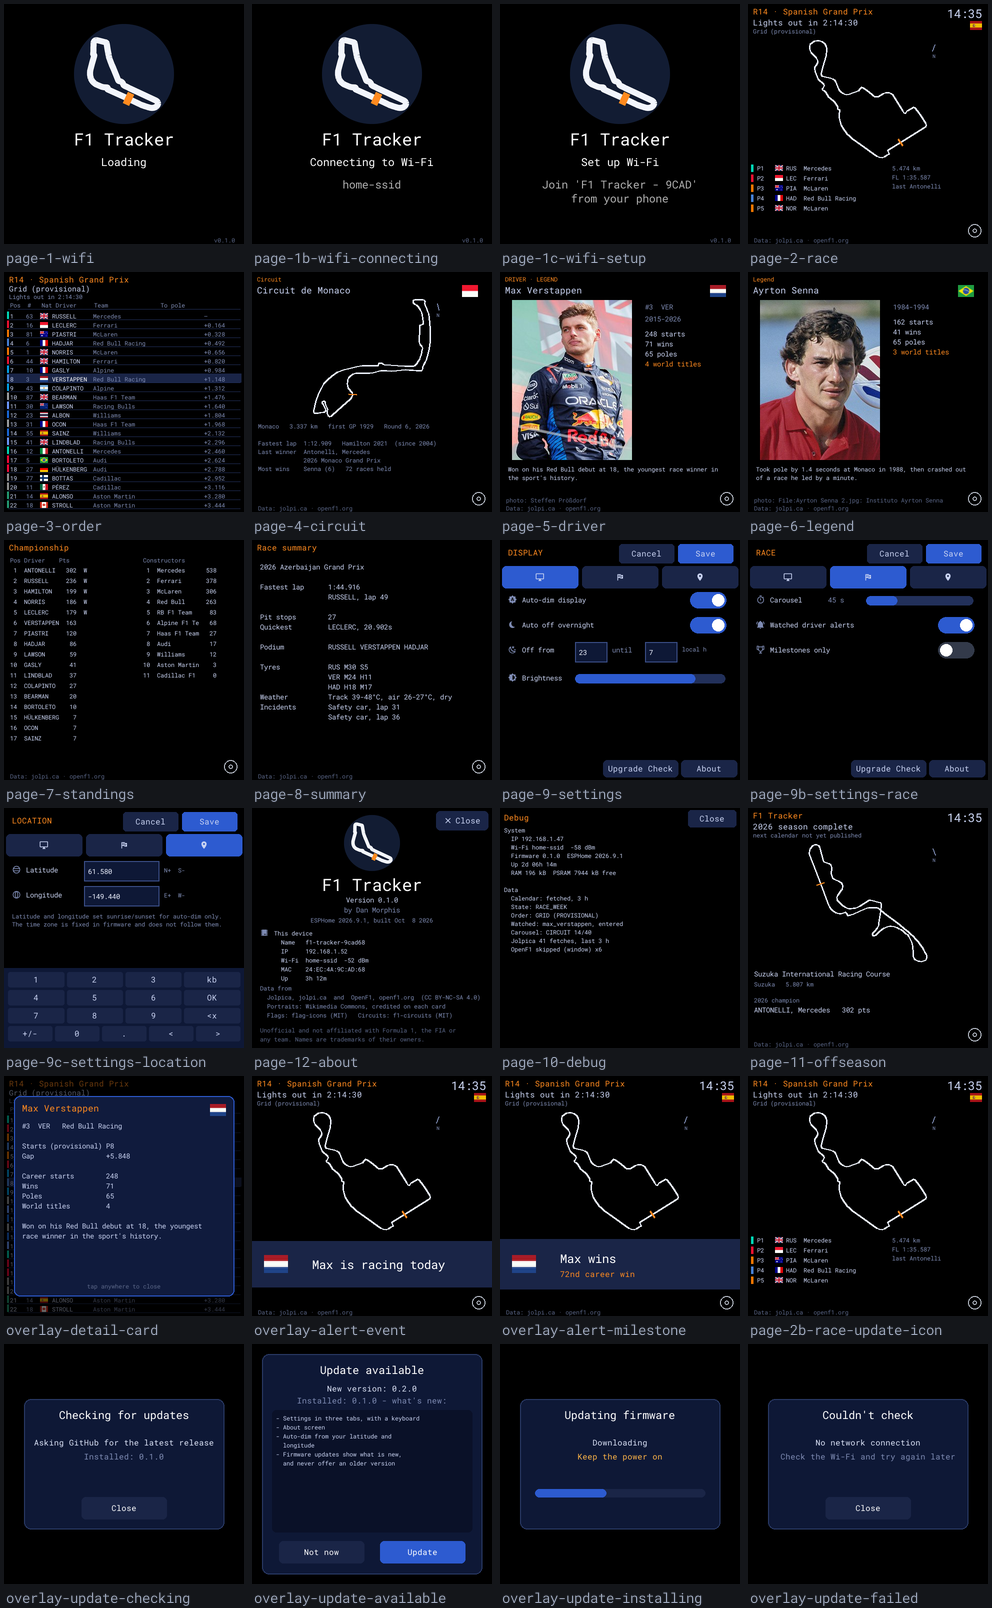
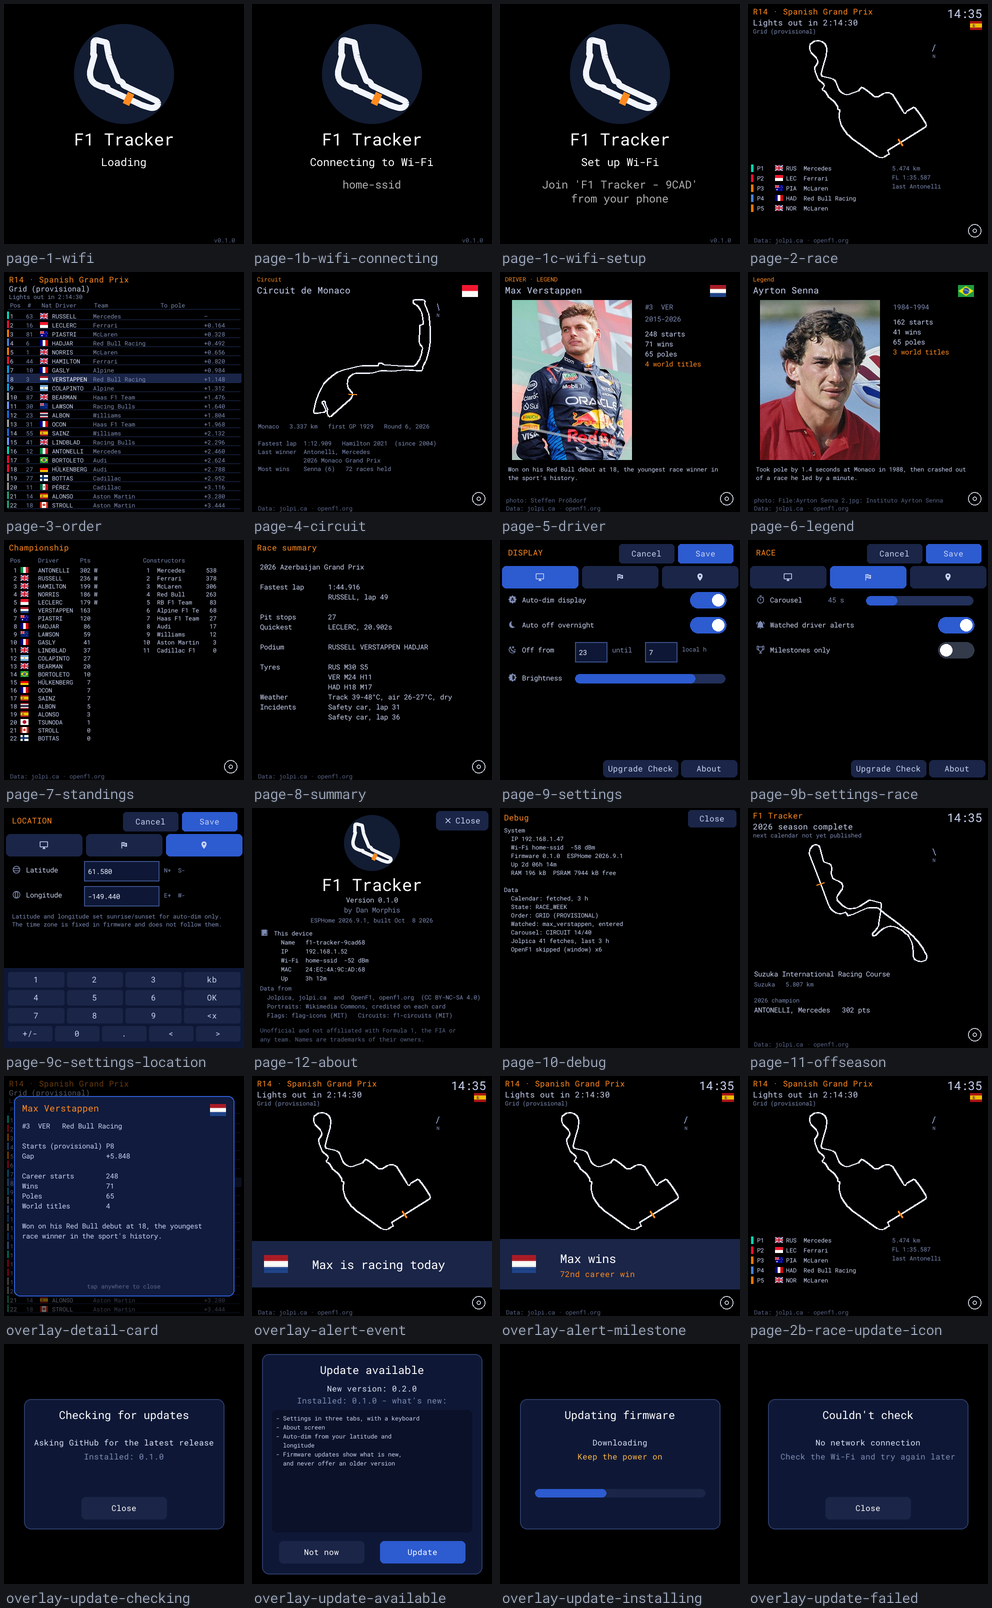
Championship page: a flag beside each driver
Flags come from the compiled driver table by driverId; the Team column goes
(the constructors table sits beside it) to make room.

Changed region(s): [[0.0, 0.342, 0.0938, 0.4664], [0.1562, 0.342, 0.2188, 0.4353]]

diff --git a/f1-tracker/f1_app.h b/f1-tracker/f1_app.h
@@ -59,6 +59,8 @@ struct App {
   uint32_t data_gen = 0;        // generation we have rendered
   lv_obj_t *standings_rows = nullptr;
   lv_obj_t *standings_label = nullptr;
+  lv_obj_t *st_flag[store::MAX_STANDINGS] = {nullptr};   // 8.1: a flag beside each driver
+  lv_image_dsc_t st_dsc[store::MAX_STANDINGS]{};
   // The top-5 strip's widgets, built once in setup().
   lv_obj_t *t5_bar[5] = {nullptr};
   lv_obj_t *t5_flag[5] = {nullptr};
@@ -341,6 +343,50 @@ inline void open_circuit() {
 // ---- the tick -----------------------------------------------------------
 // Pull a new snapshot only when the data task says the generation moved. A
 // fetch must never block rendering, and the lock is held for a memcpy only.
+// 8.1: a flag beside each driver in the championship table. The flag comes from the
+// compiled driver table by driverId (DATA-6); a driver not in it gets no flag (decision
+// 20: none beats a wrong one). The images are made once, as children of the label's
+// page, and placed on the label's own line pitch so they follow the text.
+inline void update_standing_flags() {
+  lv_obj_t *lbl = g.w.standings;
+  if (lbl == nullptr) return;
+  lv_obj_t *page = lv_obj_get_parent(lbl);
+  const lv_font_t *font = lv_obj_get_style_text_font(lbl, LV_PART_MAIN);
+  const int pitch = lv_font_get_line_height(font) + lv_obj_get_style_text_line_space(lbl, LV_PART_MAIN);
+  const int cw = lv_font_get_glyph_width(font, '0', '0');
+  const int x = lv_obj_get_x(lbl) + 3 * cw;
+  for (int i = 0; i < store::MAX_STANDINGS; i++) {
+    const flags::Flag *f = nullptr;
+    if (i < g.data.n_standings) {
+      const char *id = g.data.standings[i].driver_id;
+      for (int k = 0; k < drivers::N && id[0]; k++)
+        if (std::strcmp(drivers::P[k].driver_id, id) == 0) {
+          if (drivers::P[k].iso3[0]) f = flags::find(drivers::P[k].iso3);
+          break;
+        }
+    }
+    if (f == nullptr) {
+      if (g.st_flag[i] != nullptr) lv_obj_add_flag(g.st_flag[i], LV_OBJ_FLAG_HIDDEN);
+      continue;
+    }
+    if (g.st_flag[i] == nullptr) {
+      g.st_flag[i] = lv_image_create(page);
+      lv_obj_remove_flag(g.st_flag[i], LV_OBJ_FLAG_CLICKABLE);
+    }
+    auto &d = g.st_dsc[i];
+    d.header.magic = LV_IMAGE_HEADER_MAGIC;
+    d.header.cf = LV_COLOR_FORMAT_RGB565;
+    d.header.w = flags::CARD_W;
+    d.header.h = flags::CARD_H;
+    d.header.stride = flags::CARD_W * 2;
+    d.data_size = flags::CARD_W * flags::CARD_H * 2;
+    d.data = (const uint8_t *) f->card;
+    lv_image_set_src(g.st_flag[i], &d);
+    lv_obj_set_pos(g.st_flag[i], x, lv_obj_get_y(lbl) + i * pitch + (pitch - flags::CARD_H) / 2);
+    lv_obj_remove_flag(g.st_flag[i], LV_OBJ_FLAG_HIDDEN);
+  }
+}
+
 inline void refresh_data() {
   const uint32_t gen = net::snapshot(g.data);
   if (gen == g.data_gen) return;
@@ -464,15 +510,17 @@ inline void refresh_data() {
   }
 
   if (g.data.n_standings > 0 && g.w.standings) {
+    // The flag column sits between the position and the name: 6 spaces after the
+    // position leave room for a 16 px flag at the third character.
     char b[900];
     int k = 0;
     for (int i = 0; i < g.data.n_standings && k < (int) sizeof(b) - 48; i++) {
       const auto &s2 = g.data.standings[i];
-      k += std::snprintf(b + k, sizeof(b) - k, "%2d  %-10s %-14s %4d %s\n",
-                         s2.pos, s2.name, s2.team, s2.points,
-                         s2.wins ? "W" : " ");
+      k += std::snprintf(b + k, sizeof(b) - k, "%2d      %-10s %4d %s\n",
+                         s2.pos, s2.name, s2.points, s2.wins ? "W" : " ");
     }
     lv_label_set_text(g.w.standings, b);
+    update_standing_flags();
   }
 }
 

diff --git a/tools/render_pages.py b/tools/render_pages.py
@@ -420,18 +420,22 @@ def page_standings(ctx):
             "constructors_hdr", "constructors_body", "champ_line")
     img = Image.new("RGB", (W, H), BG); d = ImageDraw.Draw(img)
     d.text((10, 4), "Championship", font=FONT[16], fill=ORANGE)
-    d.text((12, 32), "Pos Driver    Pts", font=FONT[12], fill=MUTED)
+    d.text((12, 32), "Pos     Driver      Pts", font=FONT[12], fill=MUTED)
+    LH = 16          # mono12's line height; the firmware places the flags on the label's own pitch
+    cw = d.textlength("0", font=FONT[12])
     y = 52
-    for s in ctx["standings"][:17]:
-        d.text((12, y), f"{s['pos']:>2}  {s['name'][:10]:<10} {s['points']:>4}"
-               + ("  W" if s["wins"] else ""), font=FONT[12], fill=TEXT)
-        y += 21
+    for s in ctx["standings"][:22]:
+        d.text((12, y), f"{s['pos']:>2}      {s['name'][:10]:<10} {s['points']:>4}"
+               + (" W" if s["wins"] else ""), font=FONT[12], fill=TEXT)
+        if s.get("iso3") in ctx["flags"]:    # between the position and the name, by driverId
+            img.paste(ctx["flags"][s["iso3"]], (int(12 + 3 * cw), y + (LH - 12) // 2))
+        y += LH
     d.text((278, 32), "Constructors", font=FONT[12], fill=MUTED)
     y = 52
     for c in ctx["constructors"][:11]:
         d.text((278, y), f"{c['pos']:>2}  {c['name'][:12]:<12} {c['points']:>4}",
                font=FONT[12], fill=TEXT)
-        y += 21
+        y += LH
     # 8.1: blank for most of a season on purpose
     if ctx.get("champ_line"):
         d.text((12, 430), ctx["champ_line"], font=FONT[14], fill=(0xFF, 0xD5, 0x4A))
@@ -880,7 +884,9 @@ def main():
     sl = sj["MRData"]["StandingsTable"]["StandingsLists"][0]["DriverStandings"]
     standings = [dict(pos=int(x["position"]), points=int(float(x["points"])),
                       wins=int(x["wins"]), name=x["Driver"]["familyName"].upper(),
-                      team=x["Constructors"][0]["name"]) for x in sl]
+                      team=x["Constructors"][0]["name"],
+                      iso3=next((q["iso3"] for q in drv if q["id"] == x["Driver"]["driverId"]), ""))
+                 for x in sl]
 
     fa = json.load(open(os.path.join(SAMP, "jolpica-last-fastest.json")))["MRData"]["RaceTable"]["Races"][0]
     ps = json.load(open(os.path.join(SAMP, "jolpica-last-pitstops.json")))["MRData"]["RaceTable"]["Races"][0]["PitStops"]
